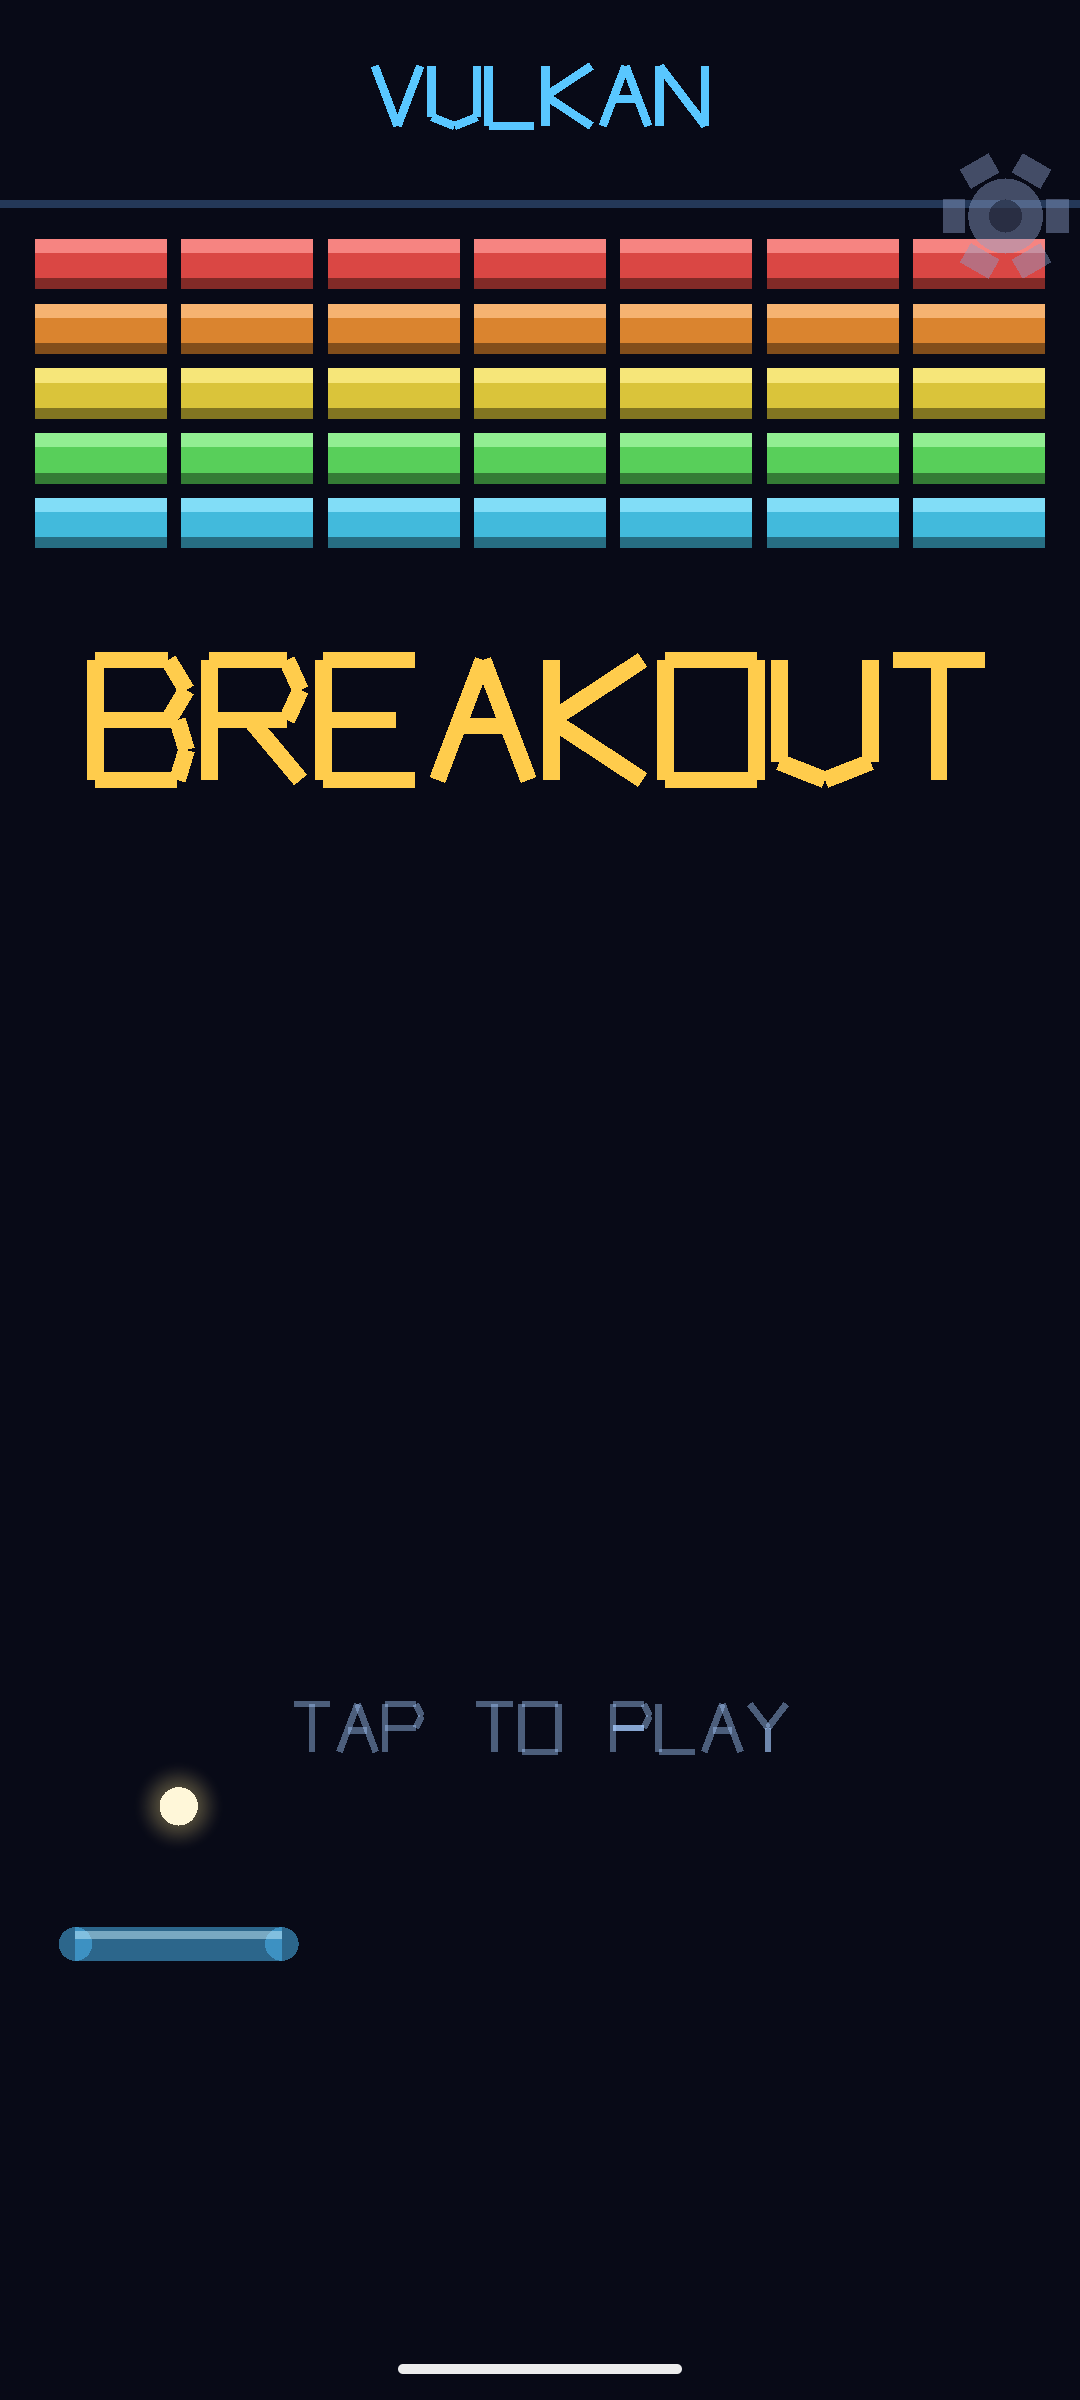
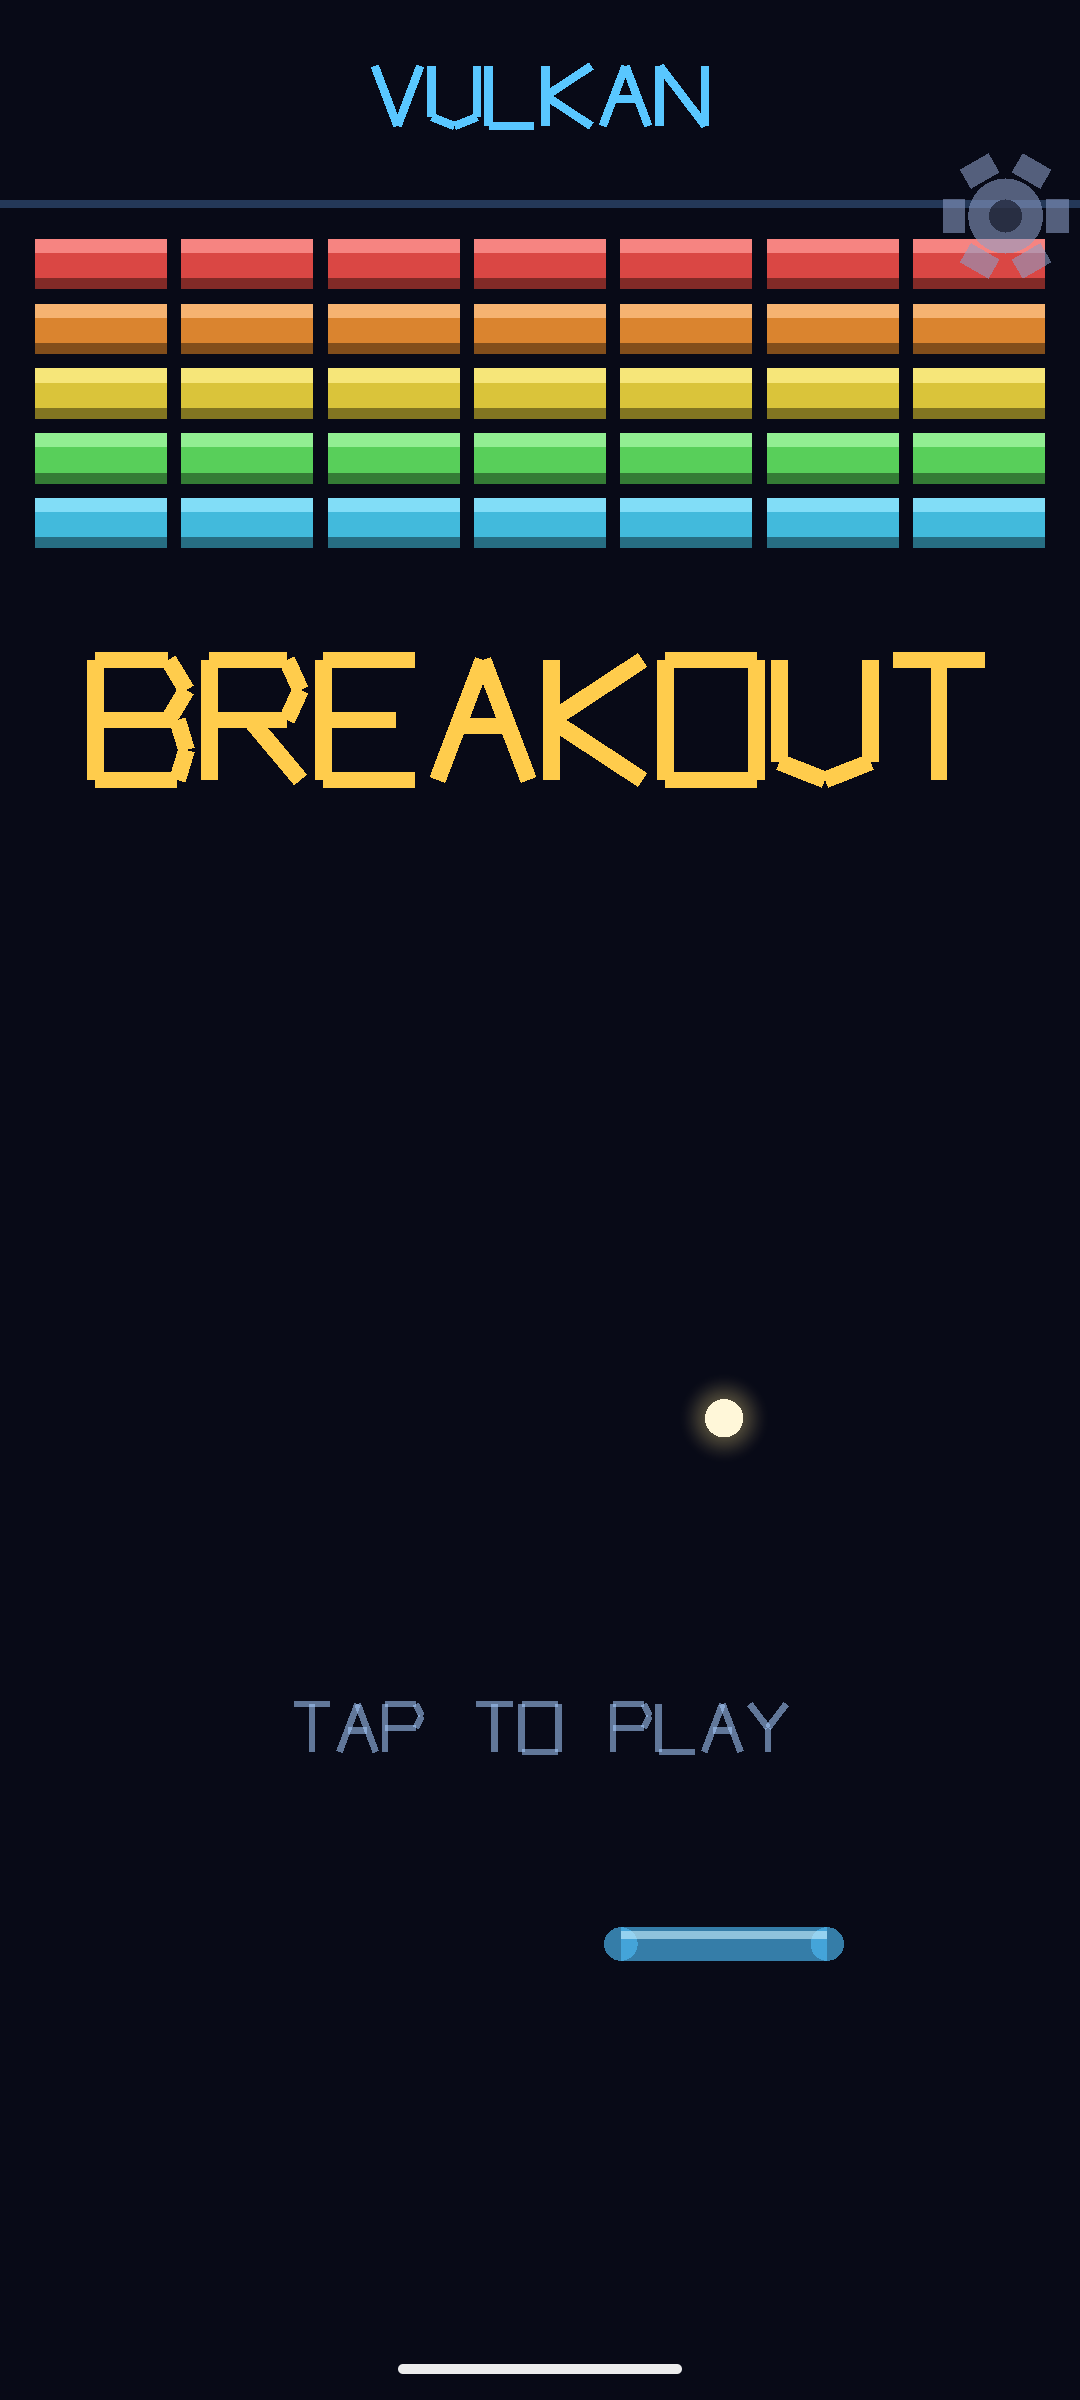
README: screenshots of Auto Play and Settings from an API 37 emulator

diff --git a/README.md b/README.md
@@ -36,11 +36,16 @@ architecture, with a brand-new game on top.
 
 ## Screenshots
 
-Captured on an Android emulator (API 36, x86_64).
+Captured on an Android emulator (API 37, x86_64) with **Auto Play** driving
+the rounds.
 
-| Title | A round, ball served |
+| Title | Auto Play: capsules on the way down |
 |:---:|:---:|
-| <img src="docs/screenshots/title.png" width="360" alt="Title screen with the demo wall, the bouncing ball and the paddle"> | <img src="docs/screenshots/gameplay.png" width="360" alt="Level 1 with the ball resting on the paddle and the TAP TO LAUNCH hint"> |
+| <img src="docs/screenshots/title.png" width="360" alt="Title screen with the demo wall, the bouncing ball and the paddle"> | <img src="docs/screenshots/autoplay-action.png" width="360" alt="Level 1 under Auto Play with a multi-ball and a slow-ball capsule falling"> |
+
+| Auto Play: three balls up, slow ball running | Settings |
+|:---:|:---:|
+| <img src="docs/screenshots/autoplay-multiball.png" width="360" alt="Three balls in play after a multi-ball pickup, the slow-ball timer bar in the control strip"> | <img src="docs/screenshots/settings.png" width="360" alt="Settings overlay with the Sound, Auto Play and Glasses rows"> |
 
 ## Gameplay
 
